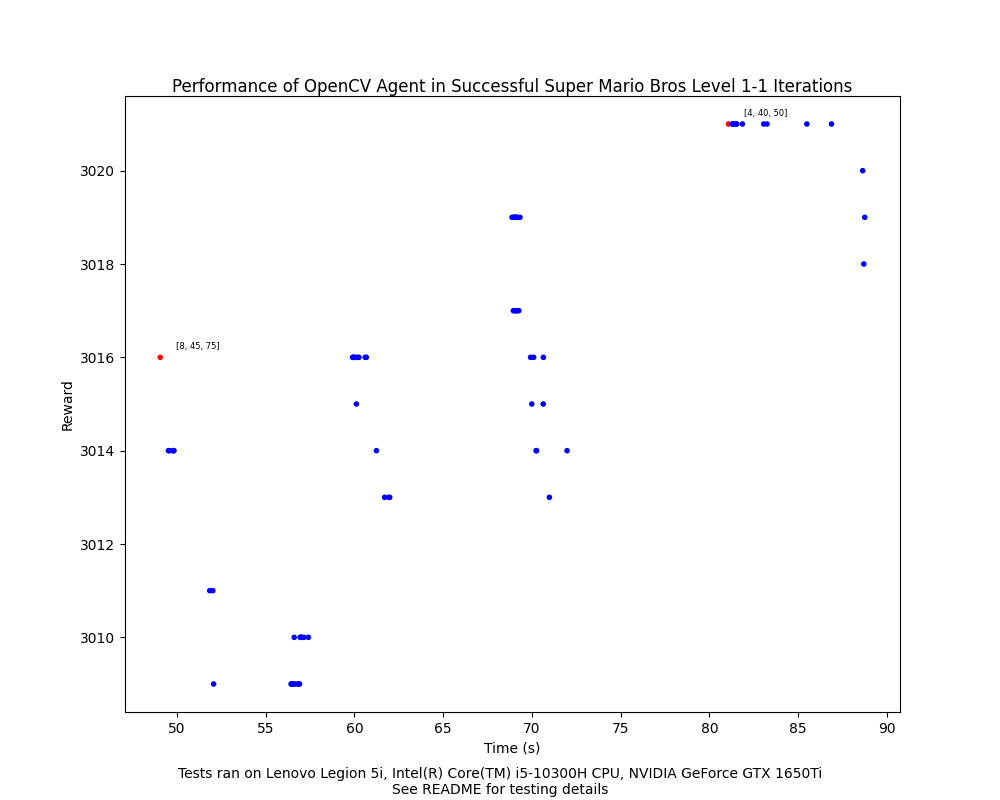
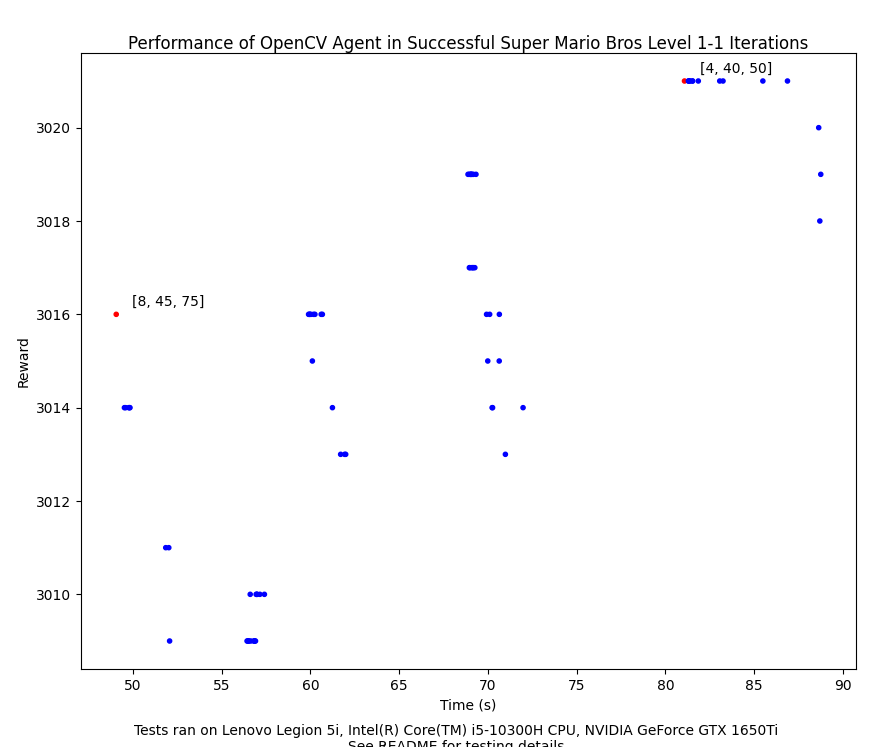
Adjust Diagrams
Adjusted diagrams to be more readable

diff --git a/opencv-agent/analysis_1-2.py b/opencv-agent/analysis_1-2.py
@@ -71,8 +71,8 @@ if(__name__ == "__main__"):
         plt.figure(figsize=(10, 8))
         plt.scatter(time, reward, marker='.', c=colours)
         offset = ((plt.xlim()[1] - plt.xlim()[0])/50, (plt.ylim()[1] - plt.ylim()[0])/75)
-        plt.annotate(f"{[fastest_run[param] for param in params]}", (time[fastest_run_ind], reward[fastest_run_ind]), xytext=(time[fastest_run_ind]+offset[0], reward[fastest_run_ind]+offset[1]), fontsize = 6)
-        plt.annotate(f"{[highest_score[param] for param in params]}", (time[highest_score_ind], reward[highest_score_ind]), xytext=((time[highest_score_ind]+offset[0]), reward[highest_score_ind]+offset[1]), fontsize = 6)
+        plt.annotate(f"{[fastest_run[param] for param in params]}", (time[fastest_run_ind], reward[fastest_run_ind]), xytext=(time[fastest_run_ind]+offset[0], reward[fastest_run_ind]+offset[1]), fontsize = 10)
+        plt.annotate(f"{[highest_score[param] for param in params]}", (time[highest_score_ind], reward[highest_score_ind]), xytext=((time[highest_score_ind]+offset[0]), reward[highest_score_ind]+offset[1]), fontsize = 10)
         plt.xlabel("Time (s)")
         plt.ylabel("Reward")
         plt.title("Performance of OpenCV Agent in Successful Super Mario Bros Level 1-2 Iterations", loc='center', pad=1.5)
@@ -84,20 +84,21 @@ if(__name__ == "__main__"):
 
     highest_score_ind = np.lexsort((datalist['RUN_TIME'], -datalist['RUN_SCORE']))[0]
     highest_score = datalist[highest_score_ind]
-    colours = ['red' if i in [highest_score_ind] else 'blue' for i in range(len(datalist))]
     
     # Scatter plot of all data
     time = [tup[4] for tup in datalist]
     reward = [tup[3] for tup in datalist]
     plt.figure(figsize=(10,8))
-    plt.scatter(time, reward, marker='.', c=colours)
+    plt.scatter(time, reward, marker='.', c='blue')
+    # re-plot highest score so colour dominates on graph
+    plt.scatter(time[highest_score_ind], reward[highest_score_ind], marker='.', c='red')
     offset = ((plt.xlim()[1] - plt.xlim()[0])/50, (plt.ylim()[1] - plt.ylim()[0])/75)
-    plt.annotate(f"{[highest_score[param] for param in params]}", (time[highest_score_ind], reward[highest_score_ind]), xytext=((time[highest_score_ind]+offset[0]), reward[highest_score_ind]+offset[1]), fontsize = 6)
+    plt.annotate(f"{[highest_score[param] for param in params]}", (time[highest_score_ind], reward[highest_score_ind]), xytext=((time[highest_score_ind]+offset[0]), reward[highest_score_ind]+offset[1]), fontsize = 10)
     plt.xlabel("Time (s)")
     plt.ylabel("Reward")
     plt.figtext(0.5, 0.01, "Tests ran on Lenovo Legion 5i, Intel(R) Core(TM) i5-10300H CPU, NVIDIA GeForce GTX 1650Ti\nSee README for testing details", wrap=True, horizontalalignment='center')
     plt.title("Performance of OpenCV Agent in all Super Mario Bros Level 1-2 Iterations", loc='center', pad=1.5)
     figpath = PurePath("opencv-agent/experiment-data/all_1-2_runs.png")
     plt.savefig(figpath)
-
+    print(f"Analysis Complete, plot saved to {figpath}")
     

diff --git a/opencv-agent/analysis_1-1.py b/opencv-agent/analysis_1-1.py
@@ -74,8 +74,8 @@ if(__name__ == "__main__"):
     plt.figure(figsize=(10, 8))
     plt.scatter(time, reward, marker='.', c=colours)
     offset = ((plt.xlim()[1] - plt.xlim()[0])/50, (plt.ylim()[1] - plt.ylim()[0])/75)
-    plt.annotate(f"{[fastest_run[param] for param in params]}", (time[fastest_run_ind], reward[fastest_run_ind]), xytext=(time[fastest_run_ind]+offset[0], reward[fastest_run_ind]+offset[1]), fontsize = 6)
-    plt.annotate(f"{[highest_score[param] for param in params]}", (time[highest_score_ind], reward[highest_score_ind]), xytext=((time[highest_score_ind]+offset[0]), reward[highest_score_ind]+offset[1]), fontsize = 6)
+    plt.annotate(f"{[fastest_run[param] for param in params]}", (time[fastest_run_ind], reward[fastest_run_ind]), xytext=(time[fastest_run_ind]+offset[0], reward[fastest_run_ind]+offset[1]), fontsize = 10)
+    plt.annotate(f"{[highest_score[param] for param in params]}", (time[highest_score_ind], reward[highest_score_ind]), xytext=((time[highest_score_ind]+offset[0]), reward[highest_score_ind]+offset[1]), fontsize = 10)
     plt.xlabel("Time (s)")
     plt.ylabel("Reward")
     plt.title("Performance of OpenCV Agent in Successful Super Mario Bros Level 1-1 Iterations", loc='center', pad=1.5)

diff --git a/opencv-agent/run_level_1-2.py b/opencv-agent/run_level_1-2.py
@@ -17,8 +17,9 @@ if(__name__ == "__main__"):
                             ])
     with open(PurePath("opencv-agent/experiment-data/level_1-2_dump.tsv"), 'w') as file:
         file.write("STEPS_PER_ACTION\tGOOMBA_RANGE\tKOOPA_RANGE\tRUN_SCORE\tRUN_TIME\tSTEPS\tX_POS\n")
-        agent = CVAgent(level = '1-2')
+        agent = CVAgent()
         for run in run_list:
+            agent.__init__(level='1-2')
             agent.STEPS_PER_ACTION = run[0]
             agent.GOOMBA_RANGE = run[1]
             agent.KOOPA_RANGE = run[2]

diff --git a/opencv-agent/run_level_1-1.py b/opencv-agent/run_level_1-1.py
@@ -31,6 +31,7 @@ if(__name__ == "__main__"):
                 }
                 for goomba in range(GOOMBA_test_range[0], GOOMBA_test_range[1], GOOMBA_test_range[2]):
                     for koopa in range(KOOPA_test_range[0], KOOPA_test_range[1], KOOPA_test_range[2]):
+                        agent.__init__()
                         agent.STEPS_PER_ACTION = spa
                         agent.GOOMBA_RANGE = goomba
                         agent.KOOPA_RANGE = koopa

diff --git a/opencv-agent/run_agent.py b/opencv-agent/run_agent.py
@@ -10,7 +10,7 @@ if(__name__ == "__main__"):
     agent.STEPS_PER_ACTION = 5
 
     # Range (in pixels) between Mario and a Goomba before Mario will jump
-    agent.GOOMBA_RANGE = 50
+    agent.GOOMBA_RANGE = 45
 
     # Range (in pixels) between Mario and a Koopa before Mario will jump
     agent.KOOPA_RANGE = 55

diff --git a/opencv-agent/cv_agent.py b/opencv-agent/cv_agent.py
@@ -357,7 +357,7 @@ class CVAgent:
                 break
             step += 1
         
-        # self.env.close() # Uncomment to end run after death
+        self.env.close() # Uncomment to end run after death
         if(metrics and done):
             data = {
                 'run-score': run_score,
